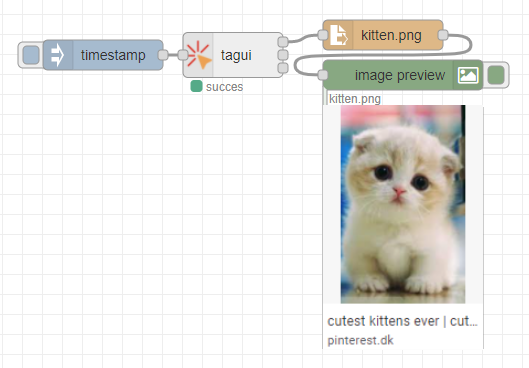
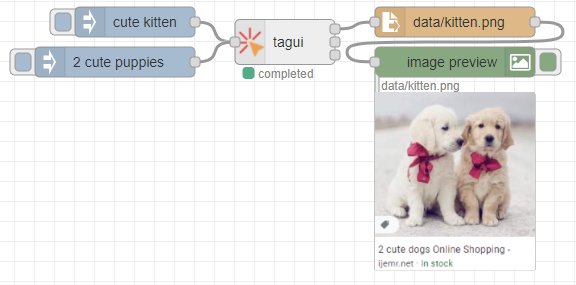
Improvements

Changed region(s): [[0.0, 0.0, 0.9981, 0.9544]]

diff --git a/dist/tagui.js b/dist/tagui.js
@@ -22,6 +22,9 @@ module.exports = function (RED) {
             try {
                 this.node.status({});
                 const headless = msg.headless || this.config.headless;
+                const nobrowser = msg.nobrowser || this.config.nobrowser;
+                const param = msg.param || this.config.param;
+                const quiet = msg.quiet || this.config.quiet;
                 const script = msg.script || this.config.script;
                 const { spawn } = require('child_process');
                 const fs = require('fs');
@@ -67,22 +70,62 @@ module.exports = function (RED) {
                     fs.unlinkSync(filename);
                 }
                 fs.writeFileSync("robot.tag", script);
-                const _arguments = ["robot.tag"];
-                if (headless)
+                let _arguments = ["robot.tag"];
+                if (quiet) {
+                    _arguments.push("-quiet");
+                }
+                if (headless) {
                     _arguments.push("-headless");
+                }
+                else if (nobrowser) {
+                    _arguments.push("-nobrowser");
+                }
+                const stringify = (element) => {
+                    var result = element;
+                    if (element != null && typeof element !== 'string') {
+                        result = element.toString();
+                    }
+                    if (result.indexOf(' ') && !result.startsWith('"') && !result.endsWith('"')) {
+                        result = '"' + result + '"';
+                    }
+                    return result;
+                };
+                if (param) {
+                    if (Array.isArray(msg.payload)) {
+                        msg.payload.forEach(element => {
+                            return stringify(element);
+                        });
+                        _arguments = _arguments.concat(msg.payload);
+                    }
+                    else {
+                        _arguments.push(stringify(msg.payload));
+                    }
+                }
                 this.node.status({ fill: "blue", shape: "dot", text: "Spawn TagUI" });
                 const child = spawn(taguiexe, _arguments);
-                let output = "";
+                let output = [];
+                child.on('exit', code => {
+                    msg.payload = output;
+                    if (code == 0) {
+                        this.node.send(msg);
+                        this.node.status({ fill: "green", shape: "dot", text: "completed" });
+                    }
+                    else {
+                        msg.exitcode = code;
+                        this.node.send([, , msg]);
+                        this.node.status({ fill: "red", shape: "dot", text: "failed" });
+                    }
+                });
                 try {
                     for (var _b = __asyncValues(child.stdout), _c; _c = await _b.next(), !_c.done;) {
                         const data = _c.value;
                         let datastr = data.toString();
-                        output += datastr;
                         if (datastr.endsWith('\n'))
                             datastr = datastr.substr(0, datastr.length - 1);
                         if (datastr.endsWith('\r'))
                             datastr = datastr.substr(0, datastr.length - 1);
                         if (datastr.trim() != "") {
+                            output.push(datastr);
                             msg.payload = datastr;
                             this.node.status({ fill: "blue", shape: "dot", text: datastr.substr(0, 32) });
                             this.node.send([, msg]);
@@ -97,18 +140,6 @@ module.exports = function (RED) {
                     finally { if (e_1) throw e_1.error; }
                 }
                 ;
-                child.on('exit', code => {
-                    msg.payload = output;
-                    if (code == 0) {
-                        this.node.send(msg);
-                        this.node.status({ fill: "green", shape: "dot", text: "completed" });
-                    }
-                    else {
-                        msg.exitcode = code;
-                        this.node.send([, , msg]);
-                        this.node.status({ fill: "red", shape: "dot", text: "failed" });
-                    }
-                });
             }
             catch (error) {
                 this.HandleError(this, error, msg);

diff --git a/src/tagui.ts b/src/tagui.ts
@@ -3,6 +3,9 @@ import { Red } from "node-red";
 export = function (RED: Red) {
     interface Itagui_tagui {
         headless: boolean;
+        nobrowser: boolean;
+        param: boolean;
+        quiet: boolean;
         name: string;
         script: string;
     }
@@ -19,7 +22,11 @@ export = function (RED: Red) {
             try {
                 this.node.status({});
                 const headless = msg.headless || this.config.headless;
+                const nobrowser = msg.nobrowser || this.config.nobrowser;
+                const param = msg.param || this.config.param;
+                const quiet = msg.quiet || this.config.quiet;
                 const script = msg.script || this.config.script;
+
                 const { spawn } = require('child_process');
                 const fs = require('fs');
                 const path = require('path');
@@ -65,22 +72,38 @@ export = function (RED: Red) {
                 }
                 fs.writeFileSync("robot.tag", script);
 
-                const _arguments = ["robot.tag"];
-                if (headless) _arguments.push("-headless")
+                let _arguments = ["robot.tag"];
+                if (quiet) {
+                    _arguments.push("-quiet")
+                }
+                if (headless) {
+                    _arguments.push("-headless")
+                } else if (nobrowser) {
+                    _arguments.push("-nobrowser")
+                }
+                const stringify = (element) => {
+                    var result: string = element
+                    if (element != null && typeof element !== 'string') {
+                        result = element.toString();
+                    }
+                    if (result.indexOf(' ') && !result.startsWith('"') && !result.endsWith('"')) {
+                        result = '"' + result + '"';
+                    }
+                    return result;
+                }
+                if (param) {
+                    if (Array.isArray(msg.payload)) {
+                        msg.payload.forEach(element => {
+                            return stringify(element);
+                        });
+                        _arguments = _arguments.concat(msg.payload);
+                    } else {
+                        _arguments.push(stringify(msg.payload));
+                    }
+                }
                 this.node.status({ fill: "blue", shape: "dot", text: "Spawn TagUI" });
                 const child = spawn(taguiexe, _arguments);
-                let output: string = "";
-                for await (const data of child.stdout) {
-                    let datastr: string = data.toString();
-                    output += datastr;
-                    if (datastr.endsWith('\n')) datastr = datastr.substr(0, datastr.length - 1);
-                    if (datastr.endsWith('\r')) datastr = datastr.substr(0, datastr.length - 1);
-                    if (datastr.trim() != "") {
-                        msg.payload = datastr;
-                        this.node.status({ fill: "blue", shape: "dot", text: datastr.substr(0, 32) });
-                        this.node.send([, msg]);
-                    }
-                };
+                let output: string[] = [];
                 child.on('exit', code => {
                     msg.payload = output;
                     if (code == 0) {
@@ -92,6 +115,18 @@ export = function (RED: Red) {
                         this.node.status({ fill: "red", shape: "dot", text: "failed" });
                     }
                 });
+                for await (const data of child.stdout) {
+                    let datastr: string = data.toString();
+                    if (datastr.endsWith('\n')) datastr = datastr.substr(0, datastr.length - 1);
+                    if (datastr.endsWith('\r')) datastr = datastr.substr(0, datastr.length - 1);
+                    if (datastr.trim() != "") {
+                        output.push(datastr);
+                        msg.payload = datastr;
+                        this.node.status({ fill: "blue", shape: "dot", text: datastr.substr(0, 32) });
+                        this.node.send([, msg]);
+                    }
+                };
+
             } catch (error) {
                 this.HandleError(this, error, msg);
             }

diff --git a/dist/tagui.html b/dist/tagui.html
@@ -8,17 +8,59 @@
         <div style="position: absolute; right:0; bottom:calc(100% + 3px);"><button id="node-function-expand-js-script" class="editor-button editor-button-small"><i class="fa fa-expand"></i></button></div>
         <div style="height: 100px; min-height:100px;" class="node-text-editor" id="node-input-script-editor" ></div>
     </div>
-    <div class="form-row">
-        <label><i class="fa fa-tag"></i> Headless</label>
-        <input type="checkbox" id="node-input-headless" style="width: auto;">
-    </div>
+    <table style="width: 100%">
+        <tr>
+            <td>
+                <div class="form-row">
+                    <label><i class="fa fa-eye-slash"></i> Headless</label>
+                    <input type="checkbox" id="node-input-headless" style="width: auto;">
+                </div>
+            </td>
+            <td>
+                <div class="form-row">
+                    <label><i class="fa fa-chrome"></i> No browser </label>
+                    <input type="checkbox" id="node-input-nobrowser" style="width: auto;">
+                </div>
+            </td>
+        </tr>
+        <tr>
+            <td>
+                <div class="form-row">
+                    <label><i class="fa fa-shopping-bag"></i> Param </label>
+                    <input type="checkbox" id="node-input-param" style="width: auto;">
+                </div>
+            </td>
+            <td>
+                <div class="form-row">
+                    <label><i class="fa fa-commenting-o"></i> Quiet </label>
+                    <input type="checkbox" id="node-input-quiet" style="width: auto;">
+                </div>
+            </td>
+        </tr>
+    </table>
     <div class="form-row">
         <label ><i class="fa fa-tag"></i> Name</label>
         <input type="text" id="node-input-name" placeholder="Node name">
     </div>
 </script>
 <script type="text/x-red" data-help-name="tagui tagui">
-    Execute RPA in human language using TagUI engine
+    <p>Execute RPA in human language using TagUI engine</p>
+    <p>Node has 3 output nodes.<br />
+        The top output node is used to continue the flow, once TagUI is done processing. msg.payload will contain all the output from the script<br />
+        The second output node will receive all output from TagUI live. Use full for debugging<br />
+        The last output node will trigger incase TagUI returns a non zero exit code, ie an error happend<br />
+    </p>
+    <p>
+        For simple workflow you can pass arguments using msg.payload and reference them from <a href="https://tagui.readthedocs.io/en/latest/reference.html?highlight=p1%20#input-s" target="_blank">TagUI as p1 to p8</a>.<br>
+        For more advanced cases simply inject the data in the script using msg.script<br>
+    </p>
+    <p>
+        You can override the script setting using msg.script<br />
+        You can override the headless setting using msg.headless<br />
+        You can override the nobrowser setting using msg.nobrowser<br />
+        You can override the param setting using msg.param<br />
+        You can override the quiet setting using msg.quiet<br />
+    </p>
 </script>
 <script type="text/javascript">
     RED.nodes.registerType('tagui tagui', {
@@ -27,6 +69,9 @@
         defaults: {
             name: { value: "" },
             headless: { value: false },
+            nobrowser: { value: false },
+            param: { value: true },
+            quiet: { value: true },
             script: {
                 value:
                     `https://www.google.dk/imghp?hl=en&ogbl

diff --git a/src/tagui.html b/src/tagui.html
@@ -8,17 +8,59 @@
         <div style="position: absolute; right:0; bottom:calc(100% + 3px);"><button id="node-function-expand-js-script" class="editor-button editor-button-small"><i class="fa fa-expand"></i></button></div>
         <div style="height: 100px; min-height:100px;" class="node-text-editor" id="node-input-script-editor" ></div>
     </div>
-    <div class="form-row">
-        <label><i class="fa fa-tag"></i> Headless</label>
-        <input type="checkbox" id="node-input-headless" style="width: auto;">
-    </div>
+    <table style="width: 100%">
+        <tr>
+            <td>
+                <div class="form-row">
+                    <label><i class="fa fa-eye-slash"></i> Headless</label>
+                    <input type="checkbox" id="node-input-headless" style="width: auto;">
+                </div>
+            </td>
+            <td>
+                <div class="form-row">
+                    <label><i class="fa fa-chrome"></i> No browser </label>
+                    <input type="checkbox" id="node-input-nobrowser" style="width: auto;">
+                </div>
+            </td>
+        </tr>
+        <tr>
+            <td>
+                <div class="form-row">
+                    <label><i class="fa fa-shopping-bag"></i> Param </label>
+                    <input type="checkbox" id="node-input-param" style="width: auto;">
+                </div>
+            </td>
+            <td>
+                <div class="form-row">
+                    <label><i class="fa fa-commenting-o"></i> Quiet </label>
+                    <input type="checkbox" id="node-input-quiet" style="width: auto;">
+                </div>
+            </td>
+        </tr>
+    </table>
     <div class="form-row">
         <label ><i class="fa fa-tag"></i> Name</label>
         <input type="text" id="node-input-name" placeholder="Node name">
     </div>
 </script>
 <script type="text/x-red" data-help-name="tagui tagui">
-    Execute RPA in human language using TagUI engine
+    <p>Execute RPA in human language using TagUI engine</p>
+    <p>Node has 3 output nodes.<br />
+        The top output node is used to continue the flow, once TagUI is done processing. msg.payload will contain all the output from the script<br />
+        The second output node will receive all output from TagUI live. Use full for debugging<br />
+        The last output node will trigger incase TagUI returns a non zero exit code, ie an error happend<br />
+    </p>
+    <p>
+        For simple workflow you can pass arguments using msg.payload and reference them from <a href="https://tagui.readthedocs.io/en/latest/reference.html?highlight=p1%20#input-s" target="_blank">TagUI as p1 to p8</a>.<br>
+        For more advanced cases simply inject the data in the script using msg.script<br>
+    </p>
+    <p>
+        You can override the script setting using msg.script<br />
+        You can override the headless setting using msg.headless<br />
+        You can override the nobrowser setting using msg.nobrowser<br />
+        You can override the param setting using msg.param<br />
+        You can override the quiet setting using msg.quiet<br />
+    </p>
 </script>
 <script type="text/javascript">
     RED.nodes.registerType('tagui tagui', {
@@ -27,6 +69,9 @@
         defaults: {
             name: { value: "" },
             headless: { value: false },
+            nobrowser: { value: false },
+            param: { value: true },
+            quiet: { value: true },
             script: {
                 value:
                     `https://www.google.dk/imghp?hl=en&ogbl

diff --git a/README.md b/README.md
@@ -16,7 +16,7 @@ The last output node will trigger incase TagUI returns a non zero exit code, ie 
 requires [node-red-contrib-image-output](https://flows.nodered.org/node/node-red-contrib-image-output) for image result
 
 ```json
-[{"id":"f3af1605.ec32f8","type":"inject","z":"de12dee8.377a1","name":"","props":[{"p":"payload"},{"p":"topic","vt":"str"}],"repeat":"","crontab":"","once":false,"onceDelay":0.1,"topic":"","payload":"","payloadType":"date","x":140,"y":80,"wires":[["7dd22cb.07c64d4"]]},{"id":"7dd22cb.07c64d4","type":"tagui tagui","z":"de12dee8.377a1","name":"","headless":false,"script":"https://www.google.dk/imghp?hl=en&ogbl\ntype q as cute kitten[enter]\nwait 2 sec\nif present('//div[@data-ri=\"0\"]')\n    snap //div[@data-ri=\"0\"] to kitten.png\nelse if present('//table//img')\n    snap //table//img to kitten.png","x":270,"y":80,"wires":[["b70aac26.17577"],[],[]]},{"id":"db71650e.26fae8","type":"image","z":"de12dee8.377a1","name":"","width":"160","data":"payload","dataType":"msg","thumbnail":false,"active":true,"pass":false,"outputs":0,"x":440,"y":100,"wires":[]},{"id":"b70aac26.17577","type":"file in","z":"de12dee8.377a1","name":"","filename":"kitten.png","format":"","chunk":false,"sendError":false,"encoding":"none","x":420,"y":60,"wires":[["db71650e.26fae8"]]}]
+[{"id":"f3af1605.ec32f8","type":"inject","z":"de12dee8.377a1","name":"","props":[{"p":"payload"},{"p":"topic","vt":"str"}],"repeat":"","crontab":"","once":false,"onceDelay":0.1,"topic":"","payload":"cute kitten","payloadType":"str","x":180,"y":60,"wires":[["7dd22cb.07c64d4"]]},{"id":"7dd22cb.07c64d4","type":"tagui tagui","z":"de12dee8.377a1","name":"","headless":false,"nobrowser":false,"param":true,"quiet":true,"script":"https://www.google.dk/imghp?hl=en&ogbl\ntype q as `p1`[enter]\nwait 2 sec\nif present('//div[@data-ri=\"0\"]')\n    snap //div[@data-ri=\"0\"] to data/kitten.png\nelse if present('//table//img')\n    snap //table//img to data/kitten.png","x":330,"y":80,"wires":[["b70aac26.17577"],[],[]]},{"id":"db71650e.26fae8","type":"image","z":"de12dee8.377a1","name":"","width":"160","data":"payload","dataType":"msg","thumbnail":false,"active":true,"pass":false,"outputs":0,"x":500,"y":100,"wires":[]},{"id":"b70aac26.17577","type":"file in","z":"de12dee8.377a1","name":"","filename":"data/kitten.png","format":"","chunk":false,"sendError":false,"encoding":"none","x":500,"y":60,"wires":[["db71650e.26fae8"]]},{"id":"8f0c45bc.efe9e8","type":"inject","z":"de12dee8.377a1","name":"","props":[{"p":"payload"},{"p":"topic","vt":"str"}],"repeat":"","crontab":"","once":false,"onceDelay":0.1,"topic":"","payload":"2 cute puppies","payloadType":"str","x":160,"y":100,"wires":[["7dd22cb.07c64d4"]]}]
 ```
 
 
